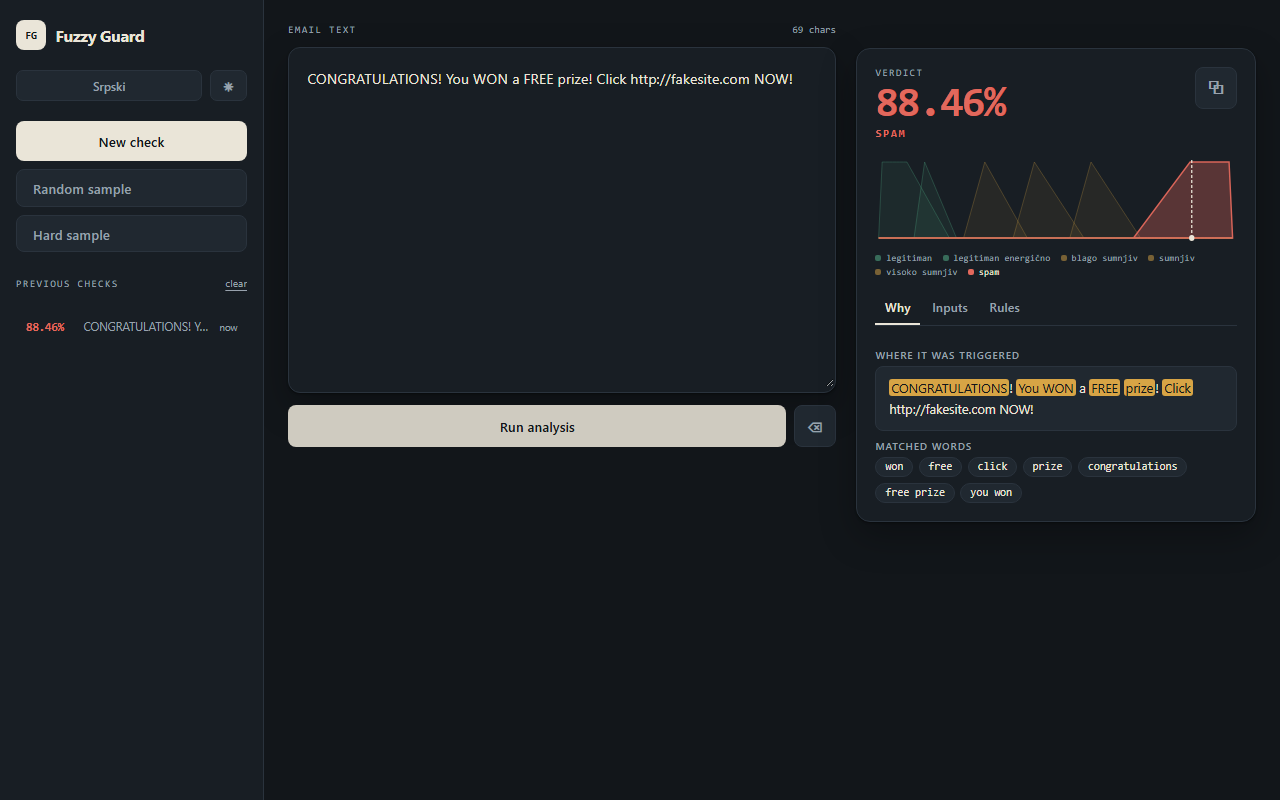
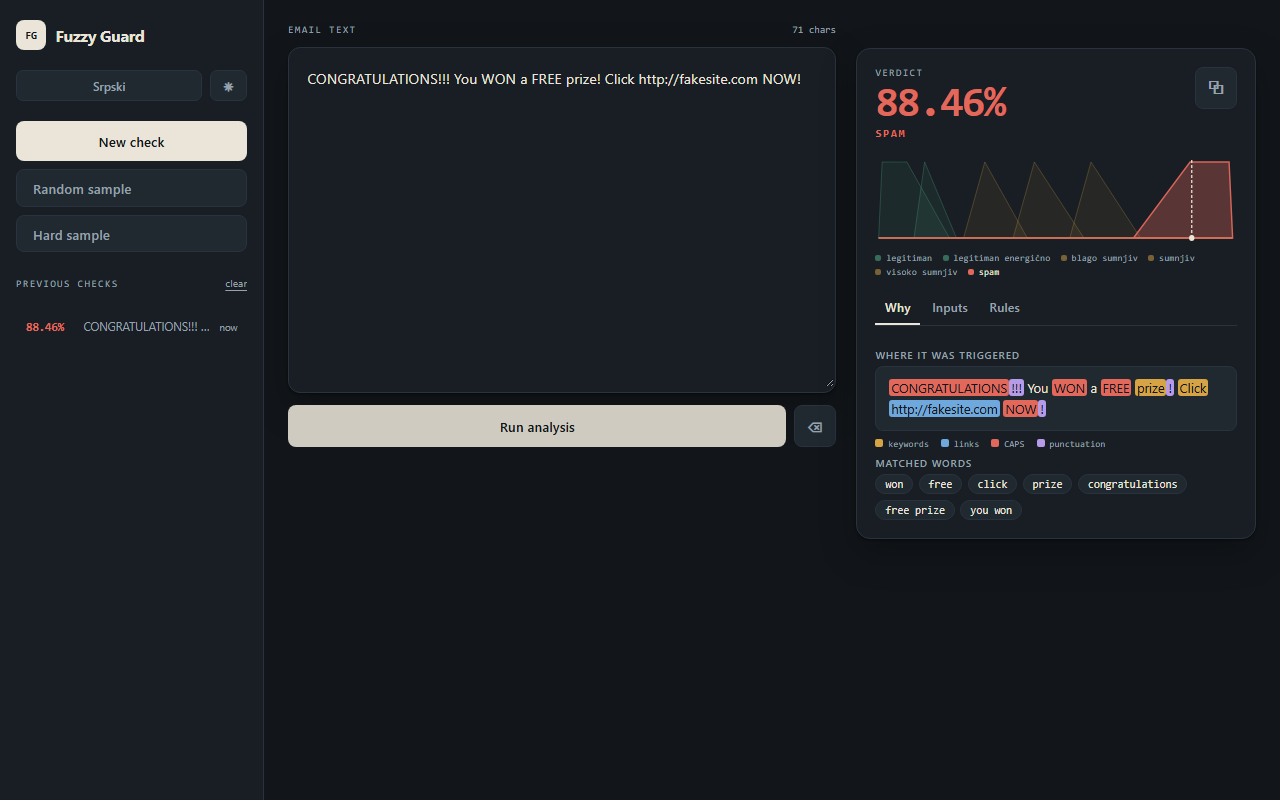
feat(veb): obojene oznake za linkove, velika slova i interpunkciju
- API vraća pozicije za linkove, CAPS tokene i !/? grupe pored reči
- preview boji svaki signal: reči žuto, linkovi plavo, CAPS crveno,
  interpunkcija ljubičasto
- legenda prikazuje samo prisutne tipove
- prioritet preklapanja: link > CAPS > reč > interpunkcija
- testovi za pozicije i tipove; nove README slike

Changed region(s): [[0.6875, 0.4688, 0.9688, 0.6562], [0.3438, 0.0938, 0.625, 0.125]]

diff --git a/veb/static/engine.js b/veb/static/engine.js
@@ -38,6 +38,10 @@ const prevodi = {
         temaSvetla: 'Prebaci na svetlu temu',
         temaTamna: 'Prebaci na tamnu temu',
         sada: 'sada',
+        legendaRec: 'reči',
+        legendaLink: 'linkovi',
+        legendaCaps: 'velika slova',
+        legendaInter: 'interpunkcija',
         kategorije: { SPAM: 'SPAM', SUMNJIVO: 'SUMNJIVO', LEGITIMAN: 'LEGITIMAN' },
         ulaziNazivi: {
             kljucne_reci: 'ključne reči',
@@ -86,6 +90,10 @@ const prevodi = {
         temaSvetla: 'Switch to light theme',
         temaTamna: 'Switch to dark theme',
         sada: 'now',
+        legendaRec: 'keywords',
+        legendaLink: 'links',
+        legendaCaps: 'CAPS',
+        legendaInter: 'punctuation',
         kategorije: { SPAM: 'SPAM', SUMNJIVO: 'SUSPICIOUS', LEGITIMAN: 'LEGITIMATE' },
         ulaziNazivi: {
             kljucne_reci: 'keywords',
@@ -458,31 +466,74 @@ function renderTab() {
     }
 }
 
-function napraviPregled(tekst, reci) {
+function napraviPregled(tekst, reci, oznake) {
     const ogranicen = tekst.length > 1200 ? tekst.slice(0, 1200) : tekst;
-    const pozicije = [];
+    const prioritet = { link: 4, caps: 3, keyword: 2, interpunkcija: 1 };
+    const spanovi = [];
+
     (reci || []).forEach(stavka => {
-        (stavka.pozicije || []).forEach(pozicija => pozicije.push(pozicija));
+        (stavka.pozicije || []).forEach(([a, b]) => spanovi.push({ a, b, tip: 'keyword' }));
     });
-    pozicije.sort((a, b) => a[0] - b[0]);
+    (oznake || []).forEach(grupa => {
+        (grupa.pozicije || []).forEach(([a, b]) => spanovi.push({ a, b, tip: grupa.tip }));
+    });
+
+    spanovi.sort((x, y) =>
+        (prioritet[y.tip] - prioritet[x.tip]) ||
+        ((y.b - y.a) - (x.b - x.a)) ||
+        (x.a - y.a)
+    );
+
+    const prihvaceni = [];
+    for (const span of spanovi) {
+        if (span.a >= span.b) continue;
+        const preklapa = prihvaceni.some(p => span.a < p.b && span.b > p.a);
+        if (!preklapa) prihvaceni.push(span);
+    }
+    prihvaceni.sort((x, y) => x.a - y.a);
 
     let html = '';
     let poz = 0;
-    for (const [pocetak, kraj] of pozicije) {
-        if (pocetak < poz || pocetak > ogranicen.length) continue;
-        html += escapeHtml(ogranicen.slice(poz, pocetak));
-        html += '<mark class="obj-mark">' + escapeHtml(ogranicen.slice(pocetak, kraj)) + '</mark>';
-        poz = kraj;
+    for (const span of prihvaceni) {
+        if (span.a < poz || span.a > ogranicen.length) continue;
+        html += escapeHtml(ogranicen.slice(poz, span.a));
+        html += `<mark class="obj-mark obj-mark--${span.tip}">` +
+                escapeHtml(ogranicen.slice(span.a, span.b)) + '</mark>';
+        poz = span.b;
     }
     html += escapeHtml(ogranicen.slice(poz));
-    if (tekst.length > ogranicen.length) html += '…';
+    if (tekst.length > ogranicen.length) html += '...';
     return html;
+}
+
+function napraviLegend(reci, oznake) {
+    const t = prevodi[trenutniJezik];
+    const prisutni = new Set();
+
+    if ((reci || []).length) prisutni.add('keyword');
+    (oznake || []).forEach(grupa => {
+        if ((grupa.pozicije || []).length) prisutni.add(grupa.tip);
+    });
+
+    if (!prisutni.size) return '';
+
+    const stavke = [
+        ['keyword', t.legendaRec],
+        ['link', t.legendaLink],
+        ['caps', t.legendaCaps],
+        ['interpunkcija', t.legendaInter]
+    ].filter(([tip]) => prisutni.has(tip));
+
+    return '<div class="obj-legenda">' + stavke.map(([tip, naziv]) =>
+        `<span style="--boja:var(--mark-${tip})"><i></i>${naziv}</span>`
+    ).join('') + '</div>';
 }
 
 function napraviZasto(podaci) {
     const t = prevodi[trenutniJezik];
     const objasnjenje = podaci.objasnjenje || {};
     const reci = objasnjenje.pokrivene_reci || [];
+    const oznake = objasnjenje.oznake || [];
 
     if (!objasnjenje.tekst && !reci.length) {
         return `<div class="obj-prazno">${t.nemaObjasnjenja}</div>`;
@@ -492,7 +543,8 @@ function napraviZasto(podaci) {
 
     if (objasnjenje.tekst) {
         html += `<div class="obj-podnaslov">${t.gdeJePokrenuto}</div>`;
-        html += `<div class="obj-pregled">${napraviPregled(objasnjenje.tekst, reci)}</div>`;
+        html += `<div class="obj-pregled">${napraviPregled(objasnjenje.tekst, reci, oznake)}</div>`;
+        html += napraviLegend(reci, oznake);
     }
 
     if (reci.length) {

diff --git a/veb/static/izgled.css b/veb/static/izgled.css
@@ -19,6 +19,11 @@
     --spam: #E2685C;
     --focus: #86A9CC;
     --shadow: 0 1px 2px rgba(0, 0, 0, 0.4), 0 14px 36px rgba(0, 0, 0, 0.28);
+    --mark-keyword: #D7A445;
+    --mark-link: #6FA8DC;
+    --mark-caps: #E2685C;
+    --mark-interpunkcija: #B69CE8;
+    --mark-text: #12161A;
 }
 
 [data-theme="light"] {
@@ -33,6 +38,11 @@
     --spam: #B93F35;
     --focus: #3D6C9E;
     --shadow: 0 1px 2px rgba(23, 33, 43, 0.06), 0 12px 30px rgba(23, 33, 43, 0.08);
+    --mark-keyword: #E9C46A;
+    --mark-link: #8DBBE8;
+    --mark-caps: #E88B80;
+    --mark-interpunkcija: #C5AEEB;
+    --mark-text: #17212B;
 }
 
 *, *::before, *::after {
@@ -589,10 +599,39 @@ textarea::placeholder {
 }
 
 .obj-mark {
-    background-color: var(--suspicious);
-    color: #12161A;
+    background-color: var(--mark-keyword);
+    color: var(--mark-text);
     border-radius: 3px;
     padding: 0 2px;
+}
+
+.obj-mark--keyword { background-color: var(--mark-keyword); }
+.obj-mark--link { background-color: var(--mark-link); }
+.obj-mark--caps { background-color: var(--mark-caps); }
+.obj-mark--interpunkcija { background-color: var(--mark-interpunkcija); }
+
+.obj-legenda {
+    display: flex;
+    flex-wrap: wrap;
+    gap: 0.3rem 0.75rem;
+    margin-top: 0.4rem;
+}
+
+.obj-legenda span {
+    display: inline-flex;
+    align-items: center;
+    gap: 0.3rem;
+    font-family: ui-monospace, SFMono-Regular, Menlo, Consolas, monospace;
+    font-size: 0.58rem;
+    color: var(--muted);
+}
+
+.obj-legenda i {
+    width: 8px;
+    height: 8px;
+    border-radius: 2px;
+    background: var(--boja);
+    display: inline-block;
 }
 
 .obj-cipovi {

diff --git a/obrada_teksta/analizator.py b/obrada_teksta/analizator.py
@@ -107,6 +107,8 @@ _UZORAK_LINKA = re.compile(r"(?i)\b(?:https?://|hxxps?://|www\.)[^\s<>\"']+")
 _UZORAK_HREF = re.compile(r"(?i)href\s*=\s*[\"']([^\"']+)[\"']")
 _UZORAK_SKRIPT = re.compile(r"(?is)<(script|style)\b.*?</\1>")
 _UZORAK_TAG = re.compile(r"(?s)<[^>]+>")
+_UZORAK_CAPS = re.compile(r"\b[A-Z\u010c\u0106\u0160\u017d\u0110]{3,}\b")
+_UZORAK_INTERPUNKCIJA = re.compile(r"[!?]+")
 
 
 def _ocisti_html(tekst: str) -> str:
@@ -260,12 +262,37 @@ def analiziraj_email(tekst: str, nacin_recnik: Optional[str] = None) -> dict:
     else:
         interpunkcija = 0.0
 
+    oznake = [
+        {
+            "tip": "link",
+            "pozicije": [
+                list(poklapanje.span())
+                for poklapanje in _UZORAK_LINKA.finditer(vidljivi_tekst)
+            ][:50],
+        },
+        {
+            "tip": "caps",
+            "pozicije": [
+                list(poklapanje.span())
+                for poklapanje in _UZORAK_CAPS.finditer(vidljivi_tekst)
+            ][:50],
+        },
+        {
+            "tip": "interpunkcija",
+            "pozicije": [
+                list(poklapanje.span())
+                for poklapanje in _UZORAK_INTERPUNKCIJA.finditer(vidljivi_tekst)
+            ][:50],
+        },
+    ]
+
     return {
         "kljucne_reci":  float(broj_kljucnih_reci),
         "broj_linkova":  float(broj_linkova),
         "caps_procenat": round(caps_procenat, 2),
         "interpunkcija": float(interpunkcija),
         "pokrivene_reci": pogodjene_reci,
+        "oznake": oznake,
         "vidljivi_tekst": vidljivi_tekst,
     }
 

diff --git a/tests/test_fis.py b/tests/test_fis.py
@@ -222,6 +222,30 @@ def test_objasnjenje_sadrzi_ulaze_pozicije_i_uslove():
     assert objasnjenje["aktivna_pravila"][0]["uslov_en"]
 
 
+def test_oznake_za_link_caps_i_interpunkciju():
+    from main import app
+    tekst = "CONGRATULATIONS!!! Visit http://example.com NOW!"
+    objasnjenje = app.test_client().post(
+        "/analiziraj", json={"tekst": tekst}
+    ).get_json()["objasnjenje"]
+
+    grupe = {grupa["tip"]: grupa["pozicije"] for grupa in objasnjenje["oznake"]}
+    assert grupe["link"] and grupe["caps"] and grupe["interpunkcija"]
+
+    for pozicije in grupe.values():
+        for pocetak, kraj in pozicije:
+            assert objasnjenje["tekst"][pocetak:kraj]
+
+    pocetak, kraj = grupe["link"][0]
+    assert "http://example.com" in objasnjenje["tekst"][pocetak:kraj]
+
+    pocetak, kraj = grupe["caps"][0]
+    assert objasnjenje["tekst"][pocetak:kraj].isupper()
+
+    pocetak, kraj = grupe["interpunkcija"][0]
+    assert set(objasnjenje["tekst"][pocetak:kraj]) <= set("!?")
+
+
 def test_svako_pravilo_ima_opis():
     from fazi.pravila import OPISI_PRAVILA, sastavi_pravila
     mu = fuzzifikuj(5, 1, 20, 10)

diff --git a/main.py b/main.py
@@ -91,6 +91,7 @@ def analiziraj():
         "objasnjenje": {
             "tekst":           ulazi.get("vidljivi_tekst", ""),
             "pokrivene_reci":  ulazi.get("pokrivene_reci", []),
+            "oznake":          ulazi.get("oznake", []),
             "aktivna_pravila": rezultat_fis.get("aktivna_pravila", []),
             "ulazi":           rezultat_fis.get("ulazi", {}),
         },
